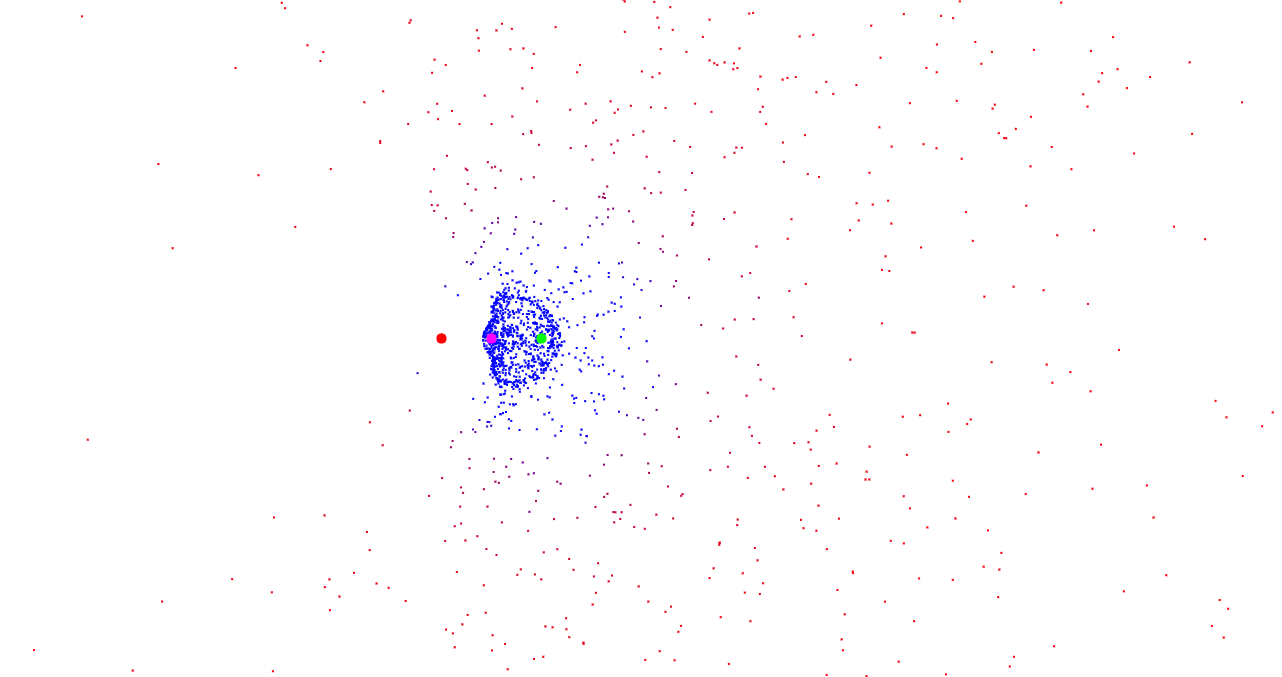
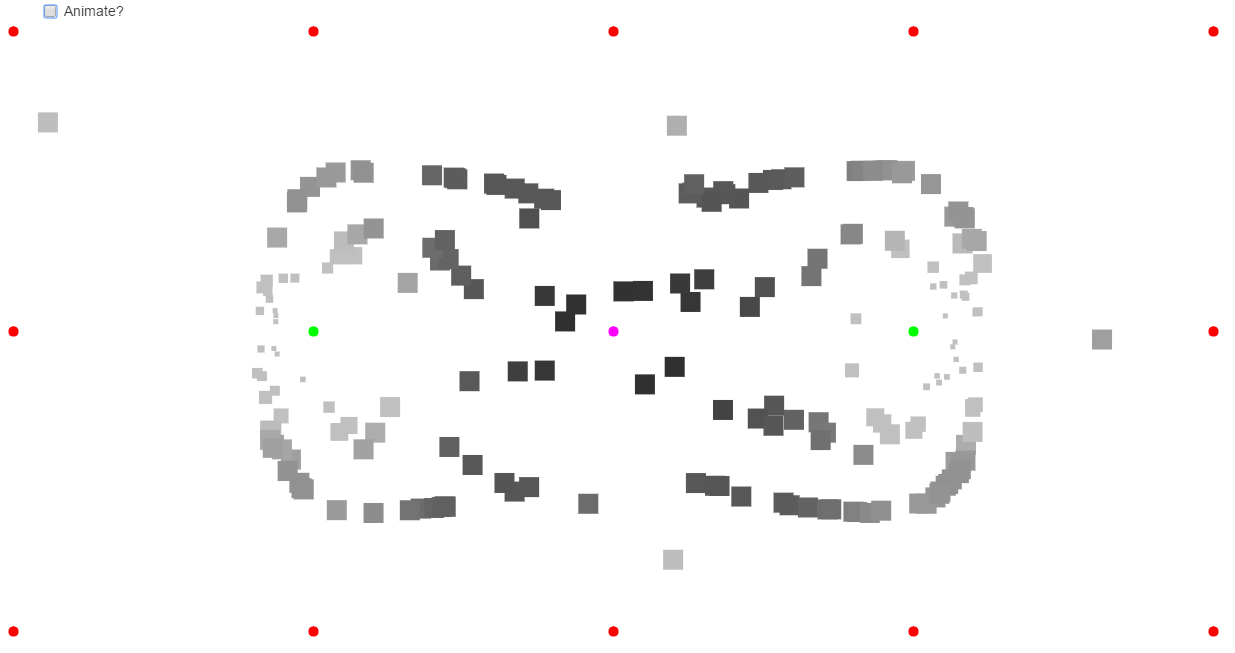
Particles change color and size

diff --git a/dist/02-particles/app.js b/dist/02-particles/app.js
@@ -1,13 +1,30 @@
 (function() {
-  var Color, Emitter, Field, Particle, Vector,
+  var Color, Emitter, Field, Helper, Particle, Vector,
     bind = function(fn, me){ return function(){ return fn.apply(me, arguments); }; };
+
+  Helper = (function() {
+    function Helper() {}
+
+    Helper.clamp = function(value, min, max) {
+      if (min == null) {
+        min = 1;
+      }
+      if (max == null) {
+        max = 10;
+      }
+      return Math.min(Math.max(value, min), max);
+    };
+
+    return Helper;
+
+  })();
 
   Vector = (function() {
     function Vector(x1, y1) {
       this.x = x1 != null ? x1 : 0;
       this.y = y1 != null ? y1 : 0;
       this.getAngle = bind(this.getAngle, this);
-      this.getMagnitude = bind(this.getMagnitude, this);
+      this.getLength = bind(this.getLength, this);
       this.add = bind(this.add, this);
     }
 
@@ -16,7 +33,7 @@
       return this.y += vector.y;
     };
 
-    Vector.prototype.getMagnitude = function() {
+    Vector.prototype.getLength = function() {
       return Math.sqrt(this.x * this.x + this.y * this.y);
     };
 
@@ -24,8 +41,8 @@
       return Math.atan2(this.y, this.x);
     };
 
-    Vector.fromAngle = function(angle, magnitude) {
-      return new Vector(magnitude * Math.cos(angle), magnitude * Math.sin(angle));
+    Vector.fromAngle = function(angle, length) {
+      return new Vector(length * Math.cos(angle), length * Math.sin(angle));
     };
 
     return Vector;
@@ -45,6 +62,7 @@
     };
 
     Color.blend = function(x, y, value) {
+      value = Helper.clamp(0, 1, value);
       return new Color(Math.round(x.r * (1 - value) + y.r * value), Math.round(x.g * (1 - value) + y.g * value), Math.round(x.b * (1 - value) + y.b * value), Math.round(x.a * (1 - value) + y.a * value));
     };
 
@@ -78,11 +96,11 @@
     }
 
     Emitter.prototype.emitParticle = function() {
-      var angle, magnitude, position, velocity;
+      var angle, length, position, velocity;
       angle = this.velocity.getAngle() + this.spread - (Math.random() * this.spread * 2);
-      magnitude = this.velocity.getMagnitude();
+      length = this.velocity.getLength();
       position = new Vector(this.position.x, this.position.y);
-      velocity = Vector.fromAngle(angle, magnitude);
+      velocity = Vector.fromAngle(angle, length);
       return new Particle(position, velocity);
     };
 
@@ -93,12 +111,14 @@
   Particle = (function() {
     Particle.color = new Color(129, 129, 129);
 
-    function Particle(position1, velocity1, acceleration) {
+    function Particle(position1, velocity1, acceleration, size) {
       this.position = position1 != null ? position1 : new Vector(0, 0);
       this.velocity = velocity1 != null ? velocity1 : new Vector(0, 0);
       this.acceleration = acceleration != null ? acceleration : new Vector(0, 0);
-      this.submitToFields = bind(this.submitToFields, this);
+      this.size = size != null ? size : 20;
+      this.calculateForces = bind(this.calculateForces, this);
       this.move = bind(this.move, this);
+      this.originalSize = this.size;
     }
 
     Particle.prototype.move = function() {
@@ -106,7 +126,7 @@
       return this.position.add(this.velocity);
     };
 
-    Particle.prototype.submitToFields = function(fields) {
+    Particle.prototype.calculateForces = function(fields) {
       var field, force, i, len, totalAccelerationX, totalAccelerationY, vectorX, vectorY;
       totalAccelerationX = 0;
       totalAccelerationY = 0;
@@ -119,7 +139,9 @@
         totalAccelerationY += vectorY * force;
       }
       this.acceleration = new Vector(totalAccelerationX, totalAccelerationY);
-      return this.color = Color.blend(new Color(255, 0, 0), new Color(0, 0, 255), this.acceleration.getMagnitude() * 20);
+      this.acc = this.acceleration.getLength();
+      this.color = Color.blend(new Color(32, 32, 32), new Color(192, 192, 192), this.acc * 20);
+      return this.size = this.originalSize / Helper.clamp(this.acc * 20, 1, 4);
     };
 
     return Particle;
@@ -127,20 +149,23 @@
   })();
 
   $(function() {
-    var addNewParticles, canvas, clear, context, draw, drawCircle, drawLoop, drawParticles, emissionRate, emitters, fields, maxParticles, midX, midY, objectSize, particleSize, particles, plotParticles, queue, update;
+    var addNewParticles, canvas, clear, context, draw, drawCircle, drawLoop, drawParticles, emissionRate, emitters, fields, haltAnimation, maxParticles, midX, midY, objectSize, particles, queue, update, updateParticles;
     canvas = canvas = $("#myCanvas")[0];
     canvas.height = window.innerHeight;
     canvas.width = window.innerWidth;
     context = canvas.getContext('2d');
-    maxParticles = 10000;
-    particleSize = 2;
+    haltAnimation = false;
+    $("input[name=isRendering]").change(function(e) {
+      return haltAnimation = !haltAnimation;
+    });
+    maxParticles = 200;
     emissionRate = 10;
     objectSize = 5;
     particles = [];
     midX = canvas.width / 2;
     midY = canvas.height / 2;
-    emitters = [new Emitter(new Vector(midX - 150, midY), Vector.fromAngle(6, 2), Math.PI)];
-    fields = [new Field(new Vector(midX - 100, midY), 450), new Field(new Vector(midX - 200, midY), -75)];
+    emitters = [new Emitter(new Vector(midX, midY), Vector.fromAngle(0, 2), Math.PI)];
+    fields = [new Field(new Vector(midX + 300, midY), 450), new Field(new Vector(midX - 300, midY), 450), new Field(new Vector(midX - 600, midY - 300), -450), new Field(new Vector(midX - 300, midY - 300), -450), new Field(new Vector(midX, midY - 300), -450), new Field(new Vector(midX + 300, midY - 300), -450), new Field(new Vector(midX + 600, midY - 300), -450), new Field(new Vector(midX - 600, midY + 300), -450), new Field(new Vector(midX - 300, midY + 300), -450), new Field(new Vector(midX, midY + 300), -450), new Field(new Vector(midX + 300, midY + 300), -450), new Field(new Vector(midX + 600, midY + 300), -450), new Field(new Vector(midX - 600, midY), -450), new Field(new Vector(midX + 600, midY), -450)];
     addNewParticles = function() {
       var emitter, i, j, len, results;
       if (particles.length > maxParticles) {
@@ -152,7 +177,7 @@
         results.push((function() {
           var k, ref, results1;
           results1 = [];
-          for (j = k = 0, ref = emissionRate; 0 <= ref ? k <= ref : k >= ref; j = 0 <= ref ? ++k : --k) {
+          for (j = k = 1, ref = emissionRate; 1 <= ref ? k <= ref : k >= ref; j = 1 <= ref ? ++k : --k) {
             results1.push(particles.push(emitter.emitParticle()));
           }
           return results1;
@@ -160,7 +185,7 @@
       }
       return results;
     };
-    plotParticles = function(boundsX, boundsY) {
+    updateParticles = function(boundsX, boundsY) {
       var currentParticles, i, len, particle, pos;
       currentParticles = new Array();
       for (i = 0, len = particles.length; i < len; i++) {
@@ -169,7 +194,7 @@
         if (pos.x < 0 || pos.x > boundsX || pos.y < 0 || pos.y > boundsY) {
           continue;
         }
-        particle.submitToFields(fields);
+        particle.calculateForces(fields);
         particle.move();
         currentParticles.push(particle);
       }
@@ -189,7 +214,7 @@
         particle = particles[i];
         context.fillStyle = particle.color.toString();
         pos = particle.position;
-        results.push(context.fillRect(pos.x, pos.y, particleSize, particleSize));
+        results.push(context.fillRect(pos.x, pos.y, particle.size, particle.size));
       }
       return results;
     };
@@ -198,7 +223,7 @@
     };
     update = function() {
       addNewParticles();
-      return plotParticles(canvas.width, canvas.height);
+      return updateParticles(canvas.width, canvas.height);
     };
     draw = function() {
       drawParticles();
@@ -209,9 +234,11 @@
       return requestAnimationFrame(drawLoop);
     };
     return (drawLoop = function() {
-      clear();
-      update();
-      draw();
+      if (!haltAnimation) {
+        clear();
+        update();
+        draw();
+      }
       return queue();
     })();
   });

diff --git a/02-particles/index.html b/02-particles/index.html
@@ -5,17 +5,30 @@
     <meta charset="utf-8">
     <meta http-equiv="X-UA-Compatible" content="IE=edge">
     <meta name="viewport" content="width=device-width, initial-scale=1">
-    <link href="https://maxcdn.bootstrapcdn.com/bootstrap/3.3.5/css/bootstrap.min.css" rel="stylesheet" integrity="sha256-MfvZlkHCEqatNoGiOXveE8FIwMzZg4W85qfrfIFBfYc= sha512-dTfge/zgoMYpP7QbHy4gWMEGsbsdZeCXz7irItjcC3sPUFtf0kuFbDz/ixG7ArTxmDjLXDmezHubeNikyKGVyQ==" crossorigin="anonymous">
+    <link rel="stylesheet" href="https://maxcdn.bootstrapcdn.com/bootstrap/3.3.6/css/bootstrap.min.css" integrity="sha384-1q8mTJOASx8j1Au+a5WDVnPi2lkFfwwEAa8hDDdjZlpLegxhjVME1fgjWPGmkzs7" crossorigin="anonymous">
     <style media="screen">
         canvas {
             position: absolute;
             left: 0;
             top: 0;
         }
+        form {
+            position: relative;
+            z-index: 666;
+        }
     </style>
 </head>
 
 <body>
+    <div class="container">
+        <form name="controls">
+            <div class="checkbox">
+                <label>
+                    <input name="isRendering" type="checkbox" checked> Animate?
+                </label>
+            </div>
+        </form>
+    </div>
     <canvas id="myCanvas"></canvas>
     <script src="../libs/jquery.js"></script>
     <script src="app.js"></script>

diff --git a/dist/02-particles/index.html b/dist/02-particles/index.html
@@ -5,17 +5,30 @@
     <meta charset="utf-8">
     <meta http-equiv="X-UA-Compatible" content="IE=edge">
     <meta name="viewport" content="width=device-width, initial-scale=1">
-    <link href="https://maxcdn.bootstrapcdn.com/bootstrap/3.3.5/css/bootstrap.min.css" rel="stylesheet" integrity="sha256-MfvZlkHCEqatNoGiOXveE8FIwMzZg4W85qfrfIFBfYc= sha512-dTfge/zgoMYpP7QbHy4gWMEGsbsdZeCXz7irItjcC3sPUFtf0kuFbDz/ixG7ArTxmDjLXDmezHubeNikyKGVyQ==" crossorigin="anonymous">
+    <link rel="stylesheet" href="https://maxcdn.bootstrapcdn.com/bootstrap/3.3.6/css/bootstrap.min.css" integrity="sha384-1q8mTJOASx8j1Au+a5WDVnPi2lkFfwwEAa8hDDdjZlpLegxhjVME1fgjWPGmkzs7" crossorigin="anonymous">
     <style media="screen">
         canvas {
             position: absolute;
             left: 0;
             top: 0;
         }
+        form {
+            position: relative;
+            z-index: 666;
+        }
     </style>
 </head>
 
 <body>
+    <div class="container">
+        <form name="controls">
+            <div class="checkbox">
+                <label>
+                    <input name="isRendering" type="checkbox" checked> Animate?
+                </label>
+            </div>
+        </form>
+    </div>
     <canvas id="myCanvas"></canvas>
     <script src="../libs/jquery.js"></script>
     <script src="app.js"></script>

diff --git a/02-particles/README.md b/02-particles/README.md
@@ -6,4 +6,5 @@ Die hier gezeigte Partikel-Engine beherrscht eine beliebige Anzahl Emitter (mage
 
 Weitere Eigenschaften:
 
-* die Farbe eines Partikels wird durch dessen Beschleunigung bestimmt. Ein roter Partikel bewegt sich gar nicht bis langsam und ein maximal beschleunigter Partikel ist blau. Zwischen diesen beiden Farben wird geblendet. Siehe: [02-Color.coffee](https://github.com/xge/generative-gestaltung/blob/master/02-particles/02-Color.coffee#L8)
+* damit es nicht zu Einbußen in der Framerate kommt kann eine Maximalanzahl von Partikeln definiert werden (siehe: [99-app.coffee](https://github.com/xge/generative-gestaltung/blob/master/02-particles/99-app.coffee#L7)).
+* die Farbe eines Partikels wird durch dessen Nähe zu einem Attraktor/Repellor bestimmt. Umso näher der Partikel einem Kraftfeld kommt, umso heller wird er. Zwischen diesen beiden Farben (`rgba(32, 32, 32, 1.0)` und `rgba(192, 192, 192, 1.0)`) wird geblendet. Siehe: [02-Color.coffee](https://github.com/xge/generative-gestaltung/blob/master/02-particles/02-Color.coffee#L8)
